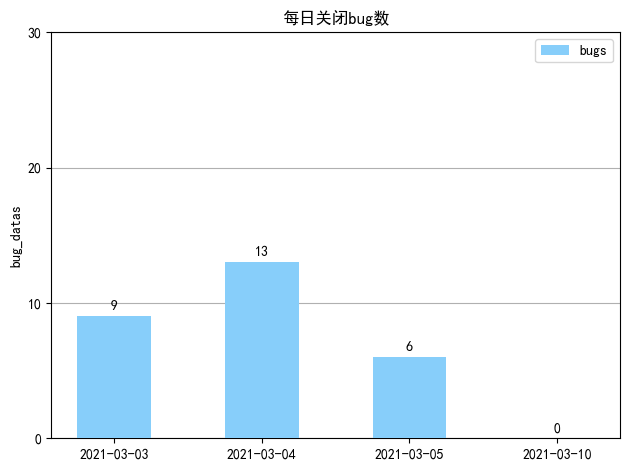
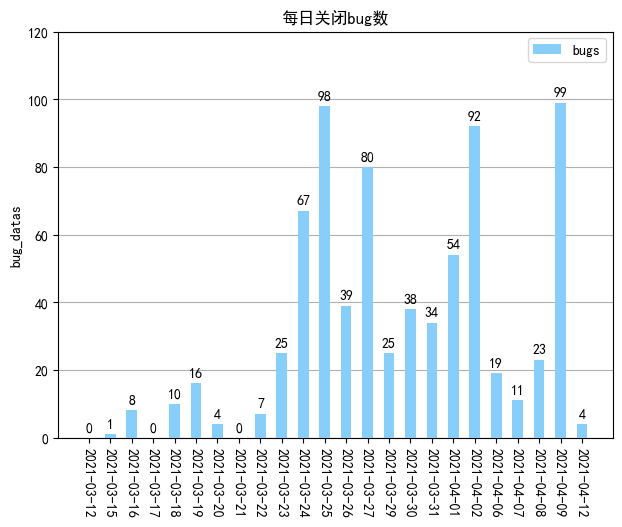
2021/4/13

Changed region(s): [[0.0, 0.0, 1.0, 0.983]]

diff --git a/Tapd/html/developerHtml.html b/Tapd/html/developerHtml.html
@@ -5,6 +5,6 @@
     <title>模板</title>
 </head>
 <body>
-<table style="border-collapse:collapse;word-break:keep-all;white-space:nowrap;font-size:14px;"><tr style="color:#fff;background-color:#48a6fb;font-size:18px;"><th style="border-color:#000;border-width:1px;border-style:solid;padding:15px;text-align:center;">开发人员</th><th style="border-color:#000;border-width:1px;border-style:solid;padding:15px;text-align:center;">今日解决BUG数</th><th style="border-color:#000;border-width:1px;border-style:solid;padding:15px;text-align:center;">待解决BUG数</th><th style="border-color:#000;border-width:1px;border-style:solid;padding:15px;text-align:center;">今日新增bug数</th></tr><tr><td style="border-color:#000;border-width:1px;border-style:solid;padding:8px;text-align:center;font-size:15px;">罗沙</td><td style="border-color:#000;border-width:1px;border-style:solid;padding:8px;text-align:center;font-size:15px;">0</td><td style="border-color:#000;border-width:1px;border-style:solid;padding:8px;text-align:center;font-size:15px;">0</td><td style="border-color:#000;border-width:1px;border-style:solid;padding:8px;text-align:center;font-size:15px;">0</td></tr><tr><td style="border-color:#000;border-width:1px;border-style:solid;padding:5px;text-align:center;">饶滔</td><td style="border-color:#000;border-width:1px;border-style:solid;padding:5px;text-align:center;">0</td><td style="border-color:#000;border-width:1px;border-style:solid;padding:5px;text-align:center;">0</td><td style="border-color:#000;border-width:1px;border-style:solid;padding:5px;text-align:center;">0</td></tr><tr><td style="border-color:#000;border-width:1px;border-style:solid;padding:5px;text-align:center;">曾俊</td><td style="border-color:#000;border-width:1px;border-style:solid;padding:5px;text-align:center;">0</td><td style="border-color:#000;border-width:1px;border-style:solid;padding:5px;text-align:center;">0</td><td style="border-color:#000;border-width:1px;border-style:solid;padding:5px;text-align:center;">0</td></tr><tr><td style="border-color:#000;border-width:1px;border-style:solid;padding:5px;text-align:center;">总计</td><td style="border-color:#000;border-width:1px;border-style:solid;padding:5px;text-align:center;">0</td><td style="border-color:#000;border-width:1px;border-style:solid;padding:5px;text-align:center;">0</td><td style="border-color:#000;border-width:1px;border-style:solid;padding:5px;text-align:center;">0</td></tr></table>
+<table style="border-collapse:collapse;word-break:keep-all;white-space:nowrap;font-size:14px;"><tr style="color:#fff;background-color:#48a6fb;font-size:18px;"><th style="border-color:#000;border-width:1px;border-style:solid;padding:15px;text-align:center;">开发人员</th><th style="border-color:#000;border-width:1px;border-style:solid;padding:15px;text-align:center;">今日解决BUG数</th><th style="border-color:#000;border-width:1px;border-style:solid;padding:15px;text-align:center;">待解决BUG数</th><th style="border-color:#000;border-width:1px;border-style:solid;padding:15px;text-align:center;">今日新增BUG数</th></tr><tr><td style="border-color:#000;border-width:1px;border-style:solid;padding:8px;text-align:center;font-size:15px;">黄晨</td><td style="border-color:#000;border-width:1px;border-style:solid;padding:8px;text-align:center;font-size:15px;">0</td><td style="border-color:#000;border-width:1px;border-style:solid;padding:8px;text-align:center;font-size:15px;">2</td><td style="border-color:#000;border-width:1px;border-style:solid;padding:8px;text-align:center;font-size:15px;">1</td></tr><tr><td style="border-color:#000;border-width:1px;border-style:solid;padding:5px;text-align:center;">吴吉</td><td style="border-color:#000;border-width:1px;border-style:solid;padding:5px;text-align:center;">8</td><td style="border-color:#000;border-width:1px;border-style:solid;padding:5px;text-align:center;">11</td><td style="border-color:#000;border-width:1px;border-style:solid;padding:5px;text-align:center;">0</td></tr><tr><td style="border-color:#000;border-width:1px;border-style:solid;padding:5px;text-align:center;">罗沙</td><td style="border-color:#000;border-width:1px;border-style:solid;padding:5px;text-align:center;">1</td><td style="border-color:#000;border-width:1px;border-style:solid;padding:5px;text-align:center;">0</td><td style="border-color:#000;border-width:1px;border-style:solid;padding:5px;text-align:center;">0</td></tr><tr><td style="border-color:#000;border-width:1px;border-style:solid;padding:5px;text-align:center;">樊彬彬</td><td style="border-color:#000;border-width:1px;border-style:solid;padding:5px;text-align:center;">0</td><td style="border-color:#000;border-width:1px;border-style:solid;padding:5px;text-align:center;">3</td><td style="border-color:#000;border-width:1px;border-style:solid;padding:5px;text-align:center;">0</td></tr><tr><td style="border-color:#000;border-width:1px;border-style:solid;padding:5px;text-align:center;">张科君</td><td style="border-color:#000;border-width:1px;border-style:solid;padding:5px;text-align:center;">1</td><td style="border-color:#000;border-width:1px;border-style:solid;padding:5px;text-align:center;">3</td><td style="border-color:#000;border-width:1px;border-style:solid;padding:5px;text-align:center;">0</td></tr><tr><td style="border-color:#000;border-width:1px;border-style:solid;padding:5px;text-align:center;">龙庆玉</td><td style="border-color:#000;border-width:1px;border-style:solid;padding:5px;text-align:center;">2</td><td style="border-color:#000;border-width:1px;border-style:solid;padding:5px;text-align:center;">9</td><td style="border-color:#000;border-width:1px;border-style:solid;padding:5px;text-align:center;">9</td></tr><tr><td style="border-color:#000;border-width:1px;border-style:solid;padding:5px;text-align:center;">胡凯</td><td style="border-color:#000;border-width:1px;border-style:solid;padding:5px;text-align:center;">1</td><td style="border-color:#000;border-width:1px;border-style:solid;padding:5px;text-align:center;">4</td><td style="border-color:#000;border-width:1px;border-style:solid;padding:5px;text-align:center;">0</td></tr><tr><td style="border-color:#000;border-width:1px;border-style:solid;padding:5px;text-align:center;">雷杰</td><td style="border-color:#000;border-width:1px;border-style:solid;padding:5px;text-align:center;">0</td><td style="border-color:#000;border-width:1px;border-style:solid;padding:5px;text-align:center;">12</td><td style="border-color:#000;border-width:1px;border-style:solid;padding:5px;text-align:center;">7</td></tr><tr><td style="border-color:#000;border-width:1px;border-style:solid;padding:5px;text-align:center;">赵铮</td><td style="border-color:#000;border-width:1px;border-style:solid;padding:5px;text-align:center;">0</td><td style="border-color:#000;border-width:1px;border-style:solid;padding:5px;text-align:center;">1</td><td style="border-color:#000;border-width:1px;border-style:solid;padding:5px;text-align:center;">0</td></tr><tr><td style="border-color:#000;border-width:1px;border-style:solid;padding:5px;text-align:center;">徐稳</td><td style="border-color:#000;border-width:1px;border-style:solid;padding:5px;text-align:center;">0</td><td style="border-color:#000;border-width:1px;border-style:solid;padding:5px;text-align:center;">2</td><td style="border-color:#000;border-width:1px;border-style:solid;padding:5px;text-align:center;">0</td></tr><tr><td style="border-color:#000;border-width:1px;border-style:solid;padding:5px;text-align:center;">李星</td><td style="border-color:#000;border-width:1px;border-style:solid;padding:5px;text-align:center;">0</td><td style="border-color:#000;border-width:1px;border-style:solid;padding:5px;text-align:center;">5</td><td style="border-color:#000;border-width:1px;border-style:solid;padding:5px;text-align:center;">2</td></tr><tr><td style="border-color:#000;border-width:1px;border-style:solid;padding:5px;text-align:center;">尹君</td><td style="border-color:#000;border-width:1px;border-style:solid;padding:5px;text-align:center;">0</td><td style="border-color:#000;border-width:1px;border-style:solid;padding:5px;text-align:center;">0</td><td style="border-color:#000;border-width:1px;border-style:solid;padding:5px;text-align:center;">0</td></tr><tr><td style="border-color:#000;border-width:1px;border-style:solid;padding:5px;text-align:center;">郑琪</td><td style="border-color:#000;border-width:1px;border-style:solid;padding:5px;text-align:center;">2</td><td style="border-color:#000;border-width:1px;border-style:solid;padding:5px;text-align:center;">6</td><td style="border-color:#000;border-width:1px;border-style:solid;padding:5px;text-align:center;">1</td></tr><tr><td style="border-color:#000;border-width:1px;border-style:solid;padding:5px;text-align:center;">刘迎</td><td style="border-color:#000;border-width:1px;border-style:solid;padding:5px;text-align:center;">1</td><td style="border-color:#000;border-width:1px;border-style:solid;padding:5px;text-align:center;">2</td><td style="border-color:#000;border-width:1px;border-style:solid;padding:5px;text-align:center;">0</td></tr><tr><td style="border-color:#000;border-width:1px;border-style:solid;padding:5px;text-align:center;">文玉婷</td><td style="border-color:#000;border-width:1px;border-style:solid;padding:5px;text-align:center;">0</td><td style="border-color:#000;border-width:1px;border-style:solid;padding:5px;text-align:center;">0</td><td style="border-color:#000;border-width:1px;border-style:solid;padding:5px;text-align:center;">0</td></tr><tr><td style="border-color:#000;border-width:1px;border-style:solid;padding:5px;text-align:center;">张莉平</td><td style="border-color:#000;border-width:1px;border-style:solid;padding:5px;text-align:center;">0</td><td style="border-color:#000;border-width:1px;border-style:solid;padding:5px;text-align:center;">2</td><td style="border-color:#000;border-width:1px;border-style:solid;padding:5px;text-align:center;">1</td></tr><tr><td style="border-color:#000;border-width:1px;border-style:solid;padding:5px;text-align:center;">总计</td><td style="border-color:#000;border-width:1px;border-style:solid;padding:5px;text-align:center;">16</td><td style="border-color:#000;border-width:1px;border-style:solid;padding:5px;text-align:center;">62</td><td style="border-color:#000;border-width:1px;border-style:solid;padding:5px;text-align:center;">21</td></tr></table>
 </body>
 </html>

diff --git a/Tapd/html/testerHtml.html b/Tapd/html/testerHtml.html
@@ -5,6 +5,6 @@
     <title>模板</title>
 </head>
 <body>
-<table style="border-collapse:collapse;word-break:keep-all;white-space:nowrap;font-size:14px;"><tr style="color:#fff;background-color:#48a6fb;font-size:18px;"><th style="border-color:#000;border-width:1px;border-style:solid;padding:15px;text-align:center;">测试人员</th><th style="border-color:#000;border-width:1px;border-style:solid;padding:15px;text-align:center;">今日提交BUG数</th><th style="border-color:#000;border-width:1px;border-style:solid;padding:15px;text-align:center;">待验证BUG数</th><th style="border-color:#000;border-width:1px;border-style:solid;padding:15px;text-align:center;">今日关闭BUG数</th></tr><tr><td style="border-color:#000;border-width:1px;border-style:solid;padding:8px;text-align:center;font-size:15px;">饶滔</td><td style="border-color:#000;border-width:1px;border-style:solid;padding:8px;text-align:center;font-size:15px;">0</td><td style="border-color:#000;border-width:1px;border-style:solid;padding:8px;text-align:center;font-size:15px;">0</td><td style="border-color:#000;border-width:1px;border-style:solid;padding:8px;text-align:center;font-size:15px;">0</td></tr><tr><td style="border-color:#000;border-width:1px;border-style:solid;padding:5px;text-align:center;">总计</td><td style="border-color:#000;border-width:1px;border-style:solid;padding:5px;text-align:center;">0</td><td style="border-color:#000;border-width:1px;border-style:solid;padding:5px;text-align:center;">0</td><td style="border-color:#000;border-width:1px;border-style:solid;padding:5px;text-align:center;">0</td></tr></table>
+<table style="border-collapse:collapse;word-break:keep-all;white-space:nowrap;font-size:14px;"><tr style="color:#fff;background-color:#48a6fb;font-size:18px;"><th style="border-color:#000;border-width:1px;border-style:solid;padding:15px;text-align:center;">测试人员</th><th style="border-color:#000;border-width:1px;border-style:solid;padding:15px;text-align:center;">今日提交BUG数</th><th style="border-color:#000;border-width:1px;border-style:solid;padding:15px;text-align:center;">待验证BUG数</th><th style="border-color:#000;border-width:1px;border-style:solid;padding:15px;text-align:center;">今日关闭BUG数</th></tr><tr><td style="border-color:#000;border-width:1px;border-style:solid;padding:8px;text-align:center;font-size:15px;">杨玲</td><td style="border-color:#000;border-width:1px;border-style:solid;padding:8px;text-align:center;font-size:15px;">6</td><td style="border-color:#000;border-width:1px;border-style:solid;padding:8px;text-align:center;font-size:15px;">12</td><td style="border-color:#000;border-width:1px;border-style:solid;padding:8px;text-align:center;font-size:15px;">0</td></tr><tr><td style="border-color:#000;border-width:1px;border-style:solid;padding:5px;text-align:center;">苏林子</td><td style="border-color:#000;border-width:1px;border-style:solid;padding:5px;text-align:center;">0</td><td style="border-color:#000;border-width:1px;border-style:solid;padding:5px;text-align:center;">10</td><td style="border-color:#000;border-width:1px;border-style:solid;padding:5px;text-align:center;">0</td></tr><tr><td style="border-color:#000;border-width:1px;border-style:solid;padding:5px;text-align:center;">刘娟</td><td style="border-color:#000;border-width:1px;border-style:solid;padding:5px;text-align:center;">7</td><td style="border-color:#000;border-width:1px;border-style:solid;padding:5px;text-align:center;">36</td><td style="border-color:#000;border-width:1px;border-style:solid;padding:5px;text-align:center;">1</td></tr><tr><td style="border-color:#000;border-width:1px;border-style:solid;padding:5px;text-align:center;">吴玉霞</td><td style="border-color:#000;border-width:1px;border-style:solid;padding:5px;text-align:center;">9</td><td style="border-color:#000;border-width:1px;border-style:solid;padding:5px;text-align:center;">10</td><td style="border-color:#000;border-width:1px;border-style:solid;padding:5px;text-align:center;">3</td></tr><tr><td style="border-color:#000;border-width:1px;border-style:solid;padding:5px;text-align:center;">总计</td><td style="border-color:#000;border-width:1px;border-style:solid;padding:5px;text-align:center;">22</td><td style="border-color:#000;border-width:1px;border-style:solid;padding:5px;text-align:center;">68</td><td style="border-color:#000;border-width:1px;border-style:solid;padding:5px;text-align:center;">4</td></tr></table>
 </body>
 </html>

diff --git a/Tapd/main.py b/Tapd/main.py
@@ -17,6 +17,8 @@ from Tapd.utils import getdateNum
 
 
 chrome_options = Options()
+chrome_options.add_argument('--no-sandbox')
+chrome_options.add_argument('--disable-dev-shm-usage')
 chrome_options.add_argument('--headless')
 chrome_options.add_argument('User-Agent={}'.format(UserAgent().chrome))
 driver = webdriver.Chrome(options=chrome_options)
@@ -75,8 +77,10 @@ def draw_chart(dict, label_name, y_name, title, path):
     fig.tight_layout()
     plt.grid(axis='y')
 
-    if len(x) > 6:
+    if len(x) > 6 and len(x) <= 12:
         plt.xticks(rotation=315)
+    elif len(x) > 12:
+        plt.xticks(rotation=270)
 
     # 保存图片
     plt.savefig(path, bbox_inches='tight')
@@ -142,13 +146,12 @@ def developerData(my_datas, person, today, version):
 
 if __name__ == '__main__':
     # 脚本初始化(注意：首次执行需要清空record.json文件)
-    version = '数据异常监控'
+    version = '配置优化一期版本'
     username = '17600445140'
     password = 'Hc17600445140'
-    roboturl = 'https://qyapi.weixin.qq.com/cgi-bin/webhook/send?key=affadc5d-52dd-4f32-b0b6-eba94ba9b70a'
-    developer = ["罗沙", "饶滔", "曾俊"]
-    tester = ["饶滔"]
-
+    roboturl = 'https://qyapi.weixin.qq.com/cgi-bin/webhook/send?key=c9a0d468-25e0-4fb6-8cbf-ea1f5f72c158'
+    developer = ["黄晨", "吴吉", "罗沙", "樊彬彬", "张科君", "龙庆玉", "胡凯", "雷杰", "赵铮", "徐稳", "李星", "尹君", "郑琪", "刘迎", "文玉婷", "张莉平"]
+    tester = ["杨玲", "苏林子", "刘娟", "吴玉霞"]
 
     today = strftime("%Y-%m-%d", localtime(time()))
 
@@ -209,7 +212,7 @@ if __name__ == '__main__':
         developerTotalData.append(developerListData)
     developerTotalData.append(["总计", str(developerTotalSolved_bugs), str(developerTotalSurplus_bugs), str(developerTotalDeveloper_todayBugs)])
 
-    Title = (('开发人员', '今日解决BUG数', '待解决BUG数', '今日新增bug数'),)
+    Title = (('开发人员', '今日解决BUG数', '待解决BUG数', '今日新增BUG数'),)
     developer_html = 'developerHtml.html'
     createHtml(Title, developerTotalData, developer_html)
 

diff --git a/Tapd/crawlingData.py b/Tapd/crawlingData.py
@@ -8,7 +8,7 @@ def crawlingData(driver,version,username,password):
     driver.find_element_by_id("password_input").send_keys(password)
     driver.find_element_by_xpath('//*[@id="tcloud_login_button"]').click()
 
-    url = "https://www.tapd.cn/67410840/bugtrace/bugreports/my_view?" + "data[Filter][version_report][]=" + version
+    url = "https://www.tapd.cn/67410840/bugtrace/bugreports/my_view?" + 'perpage=100&' + "data[Filter][version_report][]=" + version
     driver.get(url)
 
     data_list = []
